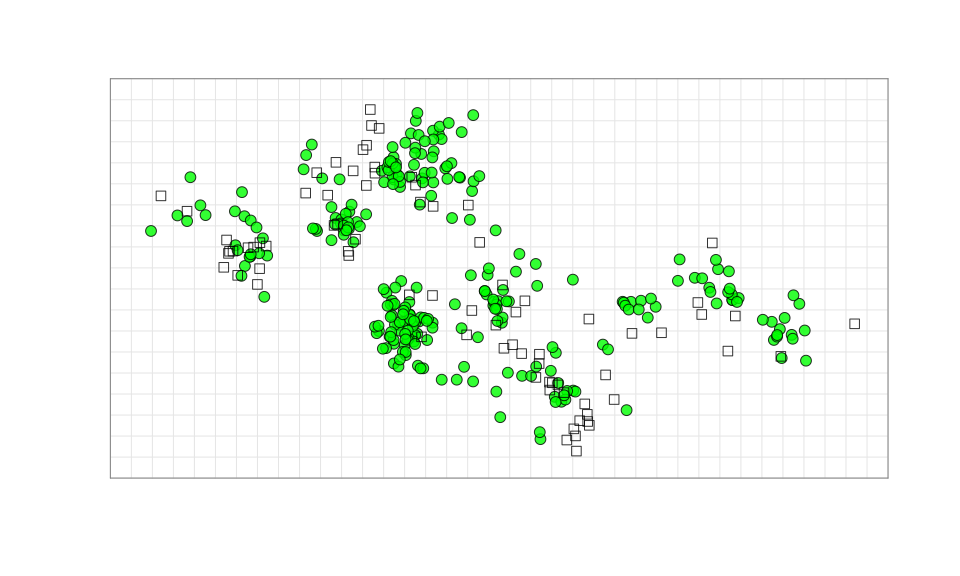
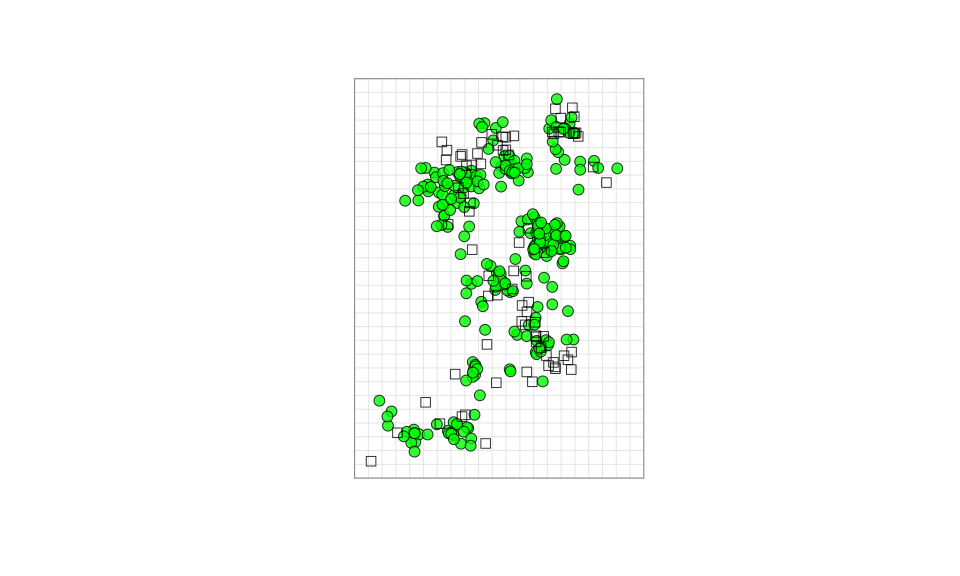
Built site for Racmacs: 1.1.34@4f29a86

diff --git a/news/index.html b/news/index.html
@@ -17,7 +17,7 @@
       </button>
       <span class="navbar-brand">
         <a class="navbar-link" href="../index.html">Racmacs</a>
-        <span class="version label label-default" data-toggle="tooltip" data-placement="bottom" title="">1.1.35</span>
+        <span class="version label label-default" data-toggle="tooltip" data-placement="bottom" title="">1.1.34</span>
       </span>
     </div>
 
@@ -252,11 +252,6 @@
 <h2 class="page-header" data-toc-text="1.1.34" id="racmacs-1134">Racmacs 1.1.34<a class="anchor" aria-label="anchor" href="#racmacs-1134"></a></h2>
 <ul><li>Add support for getting and setting serum species with <code><a href="../reference/srAttributes.html">srSpecies()</a></code>.</li>
 <li>Redundant attributes <code>agNamesAbbreviated</code>, <code>agNamesFull</code>, <code>srNamesAbbreviated</code>, <code>srNamesFull</code> removed</li>
-</ul></div>
-    <div class="section level2">
-<h2 class="page-header" data-toc-text="1.1.35" id="racmacs-1135">Racmacs 1.1.35<a class="anchor" aria-label="anchor" href="#racmacs-1135"></a></h2>
-<ul><li>Add antigen and sera attributes: <code>agLineage()</code>, <code>srLineage()</code>, <code>agReassortant()</code>, <code>srReassortant()</code>, <code>agStrings()</code>, <code>srStrings()</code>, <code>agContinent()</code>, <code>agNucleotideSequences()</code>, <code>srNucleotideSequences()</code>
-</li>
 </ul></div>
   </div>
 

diff --git a/404.html b/404.html
@@ -40,7 +40,7 @@
       </button>
       <span class="navbar-brand">
         <a class="navbar-link" href="https://acorg.github.io/Racmacs/index.html">Racmacs</a>
-        <span class="version label label-default" data-toggle="tooltip" data-placement="bottom" title="">1.1.35</span>
+        <span class="version label label-default" data-toggle="tooltip" data-placement="bottom" title="">1.1.34</span>
       </span>
     </div>
 

diff --git a/LICENSE.html b/LICENSE.html
@@ -17,7 +17,7 @@
       </button>
       <span class="navbar-brand">
         <a class="navbar-link" href="index.html">Racmacs</a>
-        <span class="version label label-default" data-toggle="tooltip" data-placement="bottom" title="">1.1.35</span>
+        <span class="version label label-default" data-toggle="tooltip" data-placement="bottom" title="">1.1.34</span>
       </span>
     </div>
 

diff --git a/articles/assessing_map_uncertainty.html b/articles/assessing_map_uncertainty.html
@@ -45,7 +45,7 @@ sera.
       </button>
       <span class="navbar-brand">
         <a class="navbar-link" href="../index.html">Racmacs</a>
-        <span class="version label label-default" data-toggle="tooltip" data-placement="bottom" title="">1.1.35</span>
+        <span class="version label label-default" data-toggle="tooltip" data-placement="bottom" title="">1.1.34</span>
       </span>
     </div>
 

diff --git a/articles/index.html b/articles/index.html
@@ -17,7 +17,7 @@
       </button>
       <span class="navbar-brand">
         <a class="navbar-link" href="../index.html">Racmacs</a>
-        <span class="version label label-default" data-toggle="tooltip" data-placement="bottom" title="">1.1.35</span>
+        <span class="version label label-default" data-toggle="tooltip" data-placement="bottom" title="">1.1.34</span>
       </span>
     </div>
 

diff --git a/articles/intro-to-antigenic-cartography.html b/articles/intro-to-antigenic-cartography.html
@@ -41,7 +41,7 @@
       </button>
       <span class="navbar-brand">
         <a class="navbar-link" href="../index.html">Racmacs</a>
-        <span class="version label label-default" data-toggle="tooltip" data-placement="bottom" title="">1.1.35</span>
+        <span class="version label label-default" data-toggle="tooltip" data-placement="bottom" title="">1.1.34</span>
       </span>
     </div>
 

diff --git a/articles/merging-maps.html b/articles/merging-maps.html
@@ -41,7 +41,7 @@
       </button>
       <span class="navbar-brand">
         <a class="navbar-link" href="../index.html">Racmacs</a>
-        <span class="version label label-default" data-toggle="tooltip" data-placement="bottom" title="">1.1.35</span>
+        <span class="version label label-default" data-toggle="tooltip" data-placement="bottom" title="">1.1.34</span>
       </span>
     </div>
 

diff --git a/authors.html b/authors.html
@@ -17,7 +17,7 @@
       </button>
       <span class="navbar-brand">
         <a class="navbar-link" href="index.html">Racmacs</a>
-        <span class="version label label-default" data-toggle="tooltip" data-placement="bottom" title="">1.1.35</span>
+        <span class="version label label-default" data-toggle="tooltip" data-placement="bottom" title="">1.1.34</span>
       </span>
     </div>
 

diff --git a/index.html b/index.html
@@ -41,7 +41,7 @@
       </button>
       <span class="navbar-brand">
         <a class="navbar-link" href="index.html">Racmacs</a>
-        <span class="version label label-default" data-toggle="tooltip" data-placement="bottom" title="">1.1.35</span>
+        <span class="version label label-default" data-toggle="tooltip" data-placement="bottom" title="">1.1.34</span>
       </span>
     </div>
 

diff --git a/reference/RacMerge.options.html b/reference/RacMerge.options.html
@@ -18,7 +18,7 @@ returning a list of option settings."><meta property="og:image" content="https:/
       </button>
       <span class="navbar-brand">
         <a class="navbar-link" href="../index.html">Racmacs</a>
-        <span class="version label label-default" data-toggle="tooltip" data-placement="bottom" title="">1.1.35</span>
+        <span class="version label label-default" data-toggle="tooltip" data-placement="bottom" title="">1.1.34</span>
       </span>
     </div>
 

diff --git a/reference/RacOptimizer.options.html b/reference/RacOptimizer.options.html
@@ -18,7 +18,7 @@ returning a list of option settings."><meta property="og:image" content="https:/
       </button>
       <span class="navbar-brand">
         <a class="navbar-link" href="../index.html">Racmacs</a>
-        <span class="version label label-default" data-toggle="tooltip" data-placement="bottom" title="">1.1.35</span>
+        <span class="version label label-default" data-toggle="tooltip" data-placement="bottom" title="">1.1.34</span>
       </span>
     </div>
 

diff --git a/reference/RacViewer-shiny.html b/reference/RacViewer-shiny.html
@@ -18,7 +18,7 @@ applications and interactive Rmd documents."><meta property="og:image" content="
       </button>
       <span class="navbar-brand">
         <a class="navbar-link" href="../index.html">Racmacs</a>
-        <span class="version label label-default" data-toggle="tooltip" data-placement="bottom" title="">1.1.35</span>
+        <span class="version label label-default" data-toggle="tooltip" data-placement="bottom" title="">1.1.34</span>
       </span>
     </div>
 